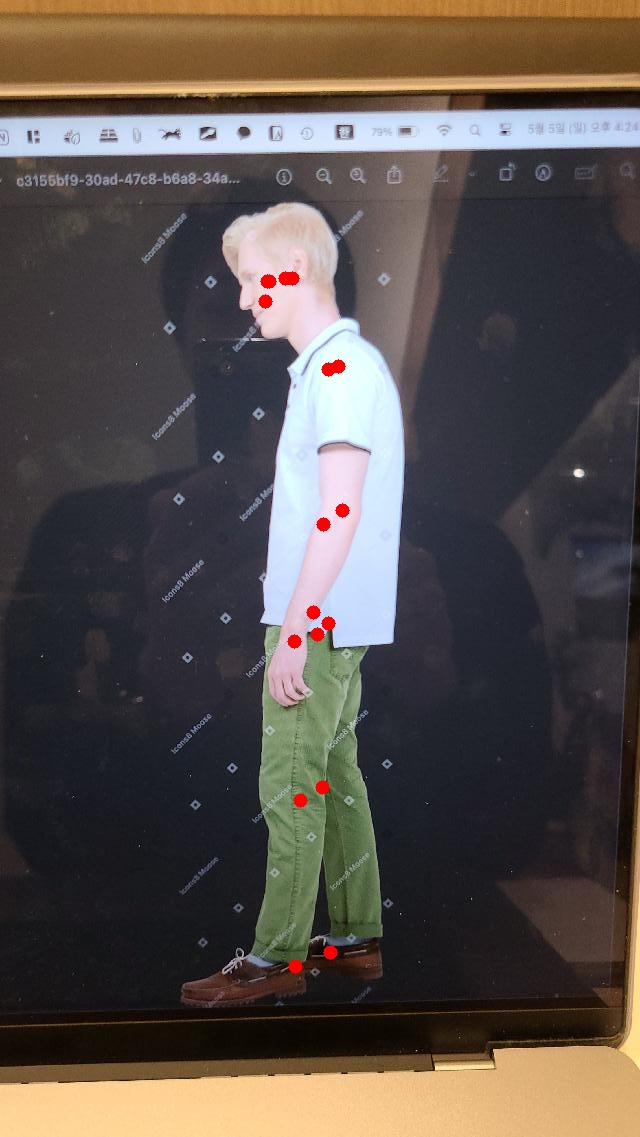
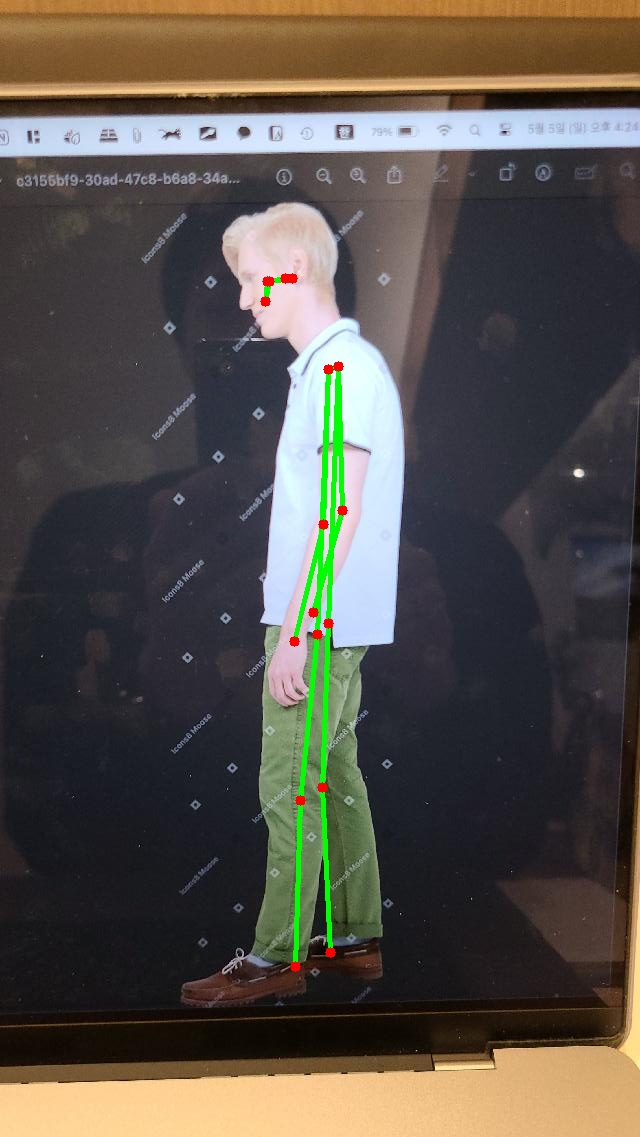
* add draw lines

Changed region(s): [[0.4375, 0.3078, 0.5625, 0.8619], [0.4062, 0.2155, 0.4688, 0.277]]

diff --git a/validator.py b/validator.py
@@ -24,20 +24,23 @@ class Validator:
             self.xy_list.append([x, y])
 
             if degug:
-                print("X: ", x, end=" / ")
+                print(int(i/4), "X: ", x, end=" / ")
                 print("Y: ", y, end=" / ")
                 print("Class: ", cls, end=" / ")
                 print("Confidence: ", conf)
 
             self.keypoints_cnt += 1
 
-            print("\nTotal Key-points count: ", self.keypoints_cnt)
+        print("\nTotal Key-points count: ", self.keypoints_cnt)
 
     def draw_points(self):
+
+        self.draw_hlines()
+
         for xy in self.xy_list:
             x = xy[0]
             y = xy[1]
-            cv2.circle(self.image, (int(x), int(y)), radius=7, color=(0, 0, 255), thickness=-1)
+            cv2.circle(self.image, (int(x), int(y)), radius=5, color=(0, 0, 255), thickness=-1)
 
     '''
         pose landmark index
@@ -61,7 +64,38 @@ class Validator:
     '''
 
     def draw_hlines(self):
-        for xy in self.xy_list:
-            x = xy[0]
-            y = xy[1]
+
+        nose_x, nose_y = self.xy_list[0][0], self.xy_list[0][1]
+        leye_x, leye_y = self.xy_list[1][0], self.xy_list[1][1]
+        reye_x, reye_y = self.xy_list[2][0], self.xy_list[2][1]
+        lear_x, lear_y = self.xy_list[3][0], self.xy_list[3][1]
+        rear_x, rear_y = self.xy_list[4][0], self.xy_list[4][1]
+        lshoulder_x, lshoulder_y = self.xy_list[5][0], self.xy_list[5][1]
+        rshoulder_x, rshoulder_y = self.xy_list[6][0], self.xy_list[6][1]
+        lelbow_x, lelbow_y = self.xy_list[7][0], self.xy_list[7][1]
+        relbow_x, relbow_y = self.xy_list[8][0], self.xy_list[8][1]
+        lwrist_x, lwrist_y = self.xy_list[9][0], self.xy_list[9][1]
+        rwrist_x, rwrist_y = self.xy_list[10][0], self.xy_list[10][1]
+        lhip_x, lhip_y = self.xy_list[11][0], self.xy_list[11][1]
+        rhip_x, rhip_y = self.xy_list[12][0], self.xy_list[12][1]
+        lknee_x, lknee_y = self.xy_list[13][0], self.xy_list[13][1]
+        rknee_x, rknee_y = self.xy_list[14][0], self.xy_list[14][1]
+        lankle_x, lankle_y = self.xy_list[15][0], self.xy_list[15][1]
+        rankle_x, rankle_y = self.xy_list[16][0], self.xy_list[16][1]
+
+        cv2.line(self.image, (int(leye_x), int(leye_y)), (int(nose_x), int(nose_y)), (0, 255, 0), 3)
+        cv2.line(self.image, (int(reye_x), int(reye_y)), (int(nose_x), int(nose_y)), (0, 255, 0), 3)
+        cv2.line(self.image, (int(leye_x), int(leye_y)), (int(lear_x), int(lear_y)), (0, 255, 0), 3)
+        cv2.line(self.image, (int(reye_x), int(reye_y)), (int(rear_x), int(rear_y)), (0, 255, 0), 3)
+        cv2.line(self.image, (int(lshoulder_x), int(lshoulder_y)), (int(rshoulder_x), int(rshoulder_y)), (0, 255, 0), 3)
+        cv2.line(self.image, (int(lshoulder_x), int(lshoulder_y)), (int(lelbow_x), int(lelbow_y)), (0, 255, 0), 3)
+        cv2.line(self.image, (int(rshoulder_x), int(rshoulder_y)), (int(relbow_x), int(relbow_y)), (0, 255, 0), 3)
+        cv2.line(self.image, (int(lelbow_x), int(lelbow_y)), (int(lwrist_x), int(lwrist_y)), (0, 255, 0), 3)
+        cv2.line(self.image, (int(relbow_x), int(relbow_y)), (int(rwrist_x), int(rwrist_y)), (0, 255, 0), 3)
+        cv2.line(self.image, (int(lshoulder_x), int(lshoulder_y)), (int(lhip_x), int(lhip_y)), (0, 255, 0), 3)
+        cv2.line(self.image, (int(rshoulder_x), int(rshoulder_y)), (int(rhip_x), int(rhip_y)), (0, 255, 0), 3)
+        cv2.line(self.image, (int(lhip_x), int(lhip_y)), (int(lknee_x), int(lknee_y)), (0, 255, 0), 3)
+        cv2.line(self.image, (int(rhip_x), int(rhip_y)), (int(rknee_x), int(rknee_y)), (0, 255, 0), 3)
+        cv2.line(self.image, (int(lknee_x), int(lknee_y)), (int(lankle_x), int(lankle_y)), (0, 255, 0), 3)
+        cv2.line(self.image, (int(rknee_x), int(rknee_y)), (int(rankle_x), int(rankle_y)), (0, 255, 0), 3)
 

diff --git a/main.py b/main.py
@@ -31,11 +31,8 @@ def start(image_path, image_number, json_path, output_path):
     # extract x,y
     validator = v.Validator(image=image, keypoints=keypoints)
 
-    # draw key points on image
+    # draw key points and lines on image
     validator.draw_points()
-
-    # TODO draw lines between key points
-    validator.draw_hlines()
 
     cv2.imwrite(output_path + 'modified_image.jpg', image)
 
